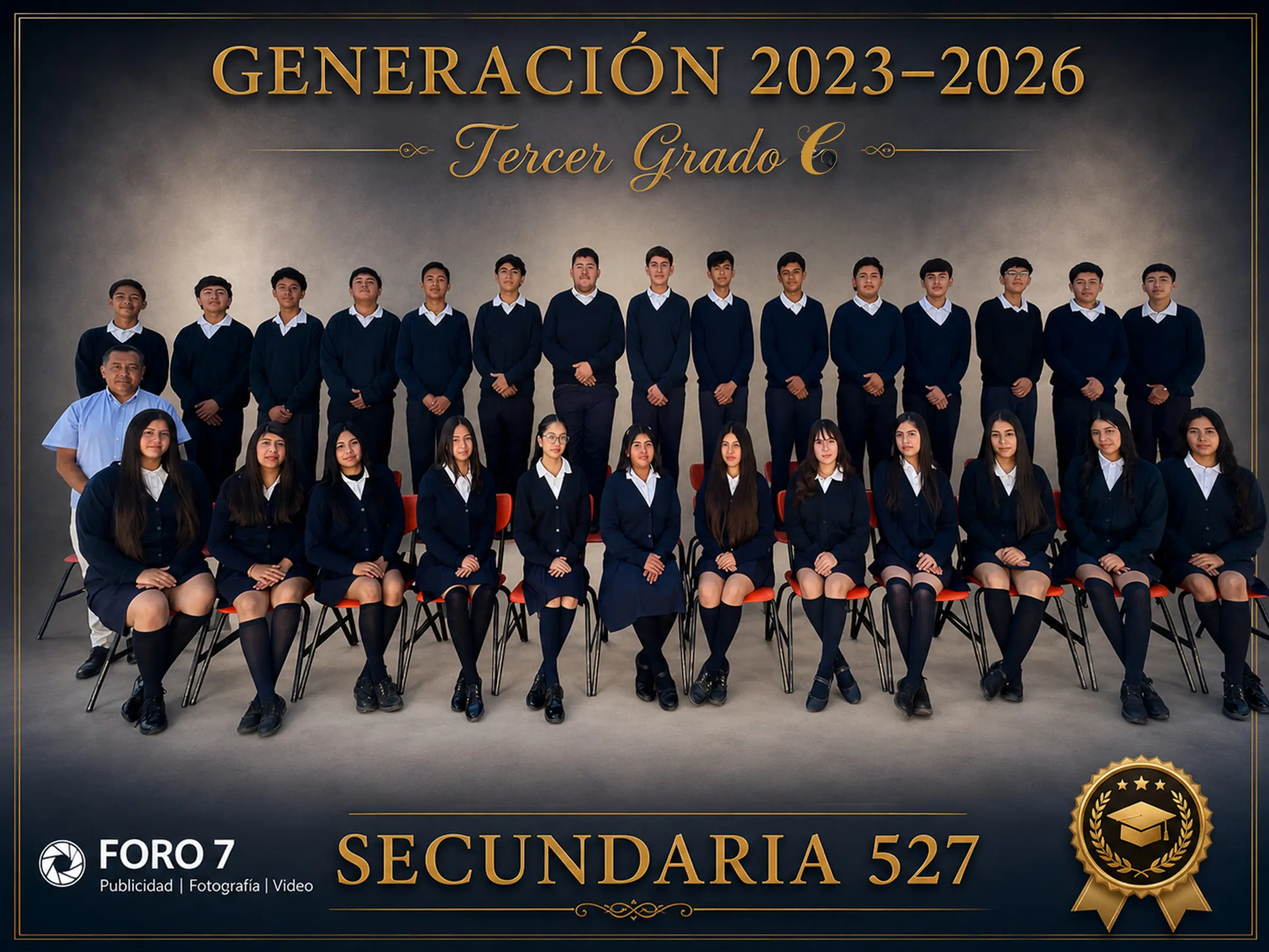
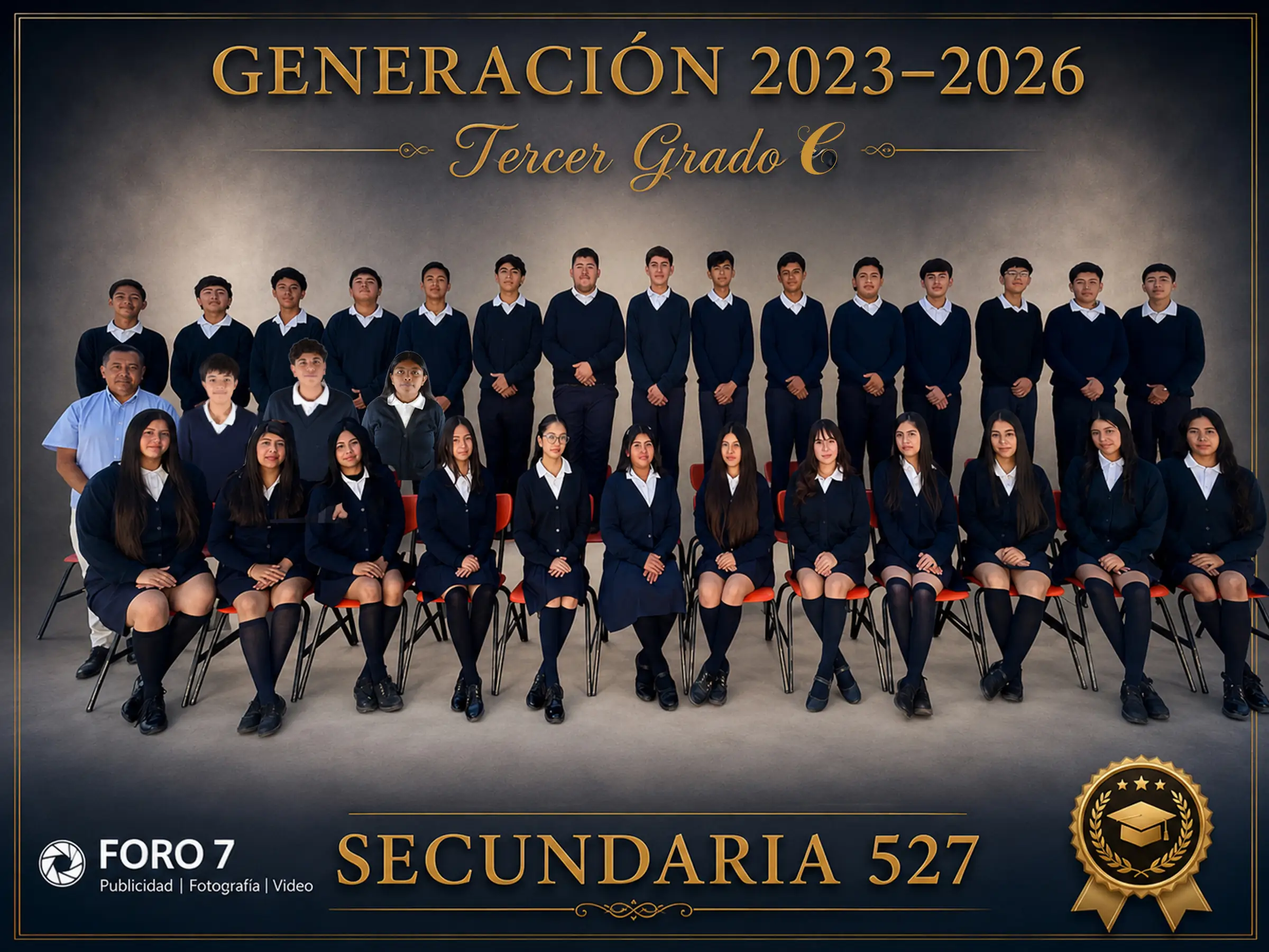
fix: renombrar pestañas 6x8→Grupales y Pen Drive→Personal Docente, actualizar grupal 3C

Changed region(s): [[0.125, 0.3422, 0.375, 0.5289], [0.25, 0.5289, 0.2812, 0.56]]

diff --git a/js/entregables_data.js b/js/entregables_data.js
@@ -487,7 +487,7 @@ var ENTREGABLES = {
       "DSC_0979seundaria 3c4x6.webp"
     ]
   },
-  "6x8": {
+  "Grupales": {
     "base": "img/secundaria 527/6x8/",
     "fotos": [
       "s5a.webp",
@@ -497,7 +497,7 @@ var ENTREGABLES = {
       "s5m.webp"
     ]
   },
-  "Pen Drive": {
+  "Personal Docente": {
     "base": "img/secundaria 527/pd/",
     "fotos": [
       "DJI_20260525_123127_636seundaria 3c4x6.webp"
